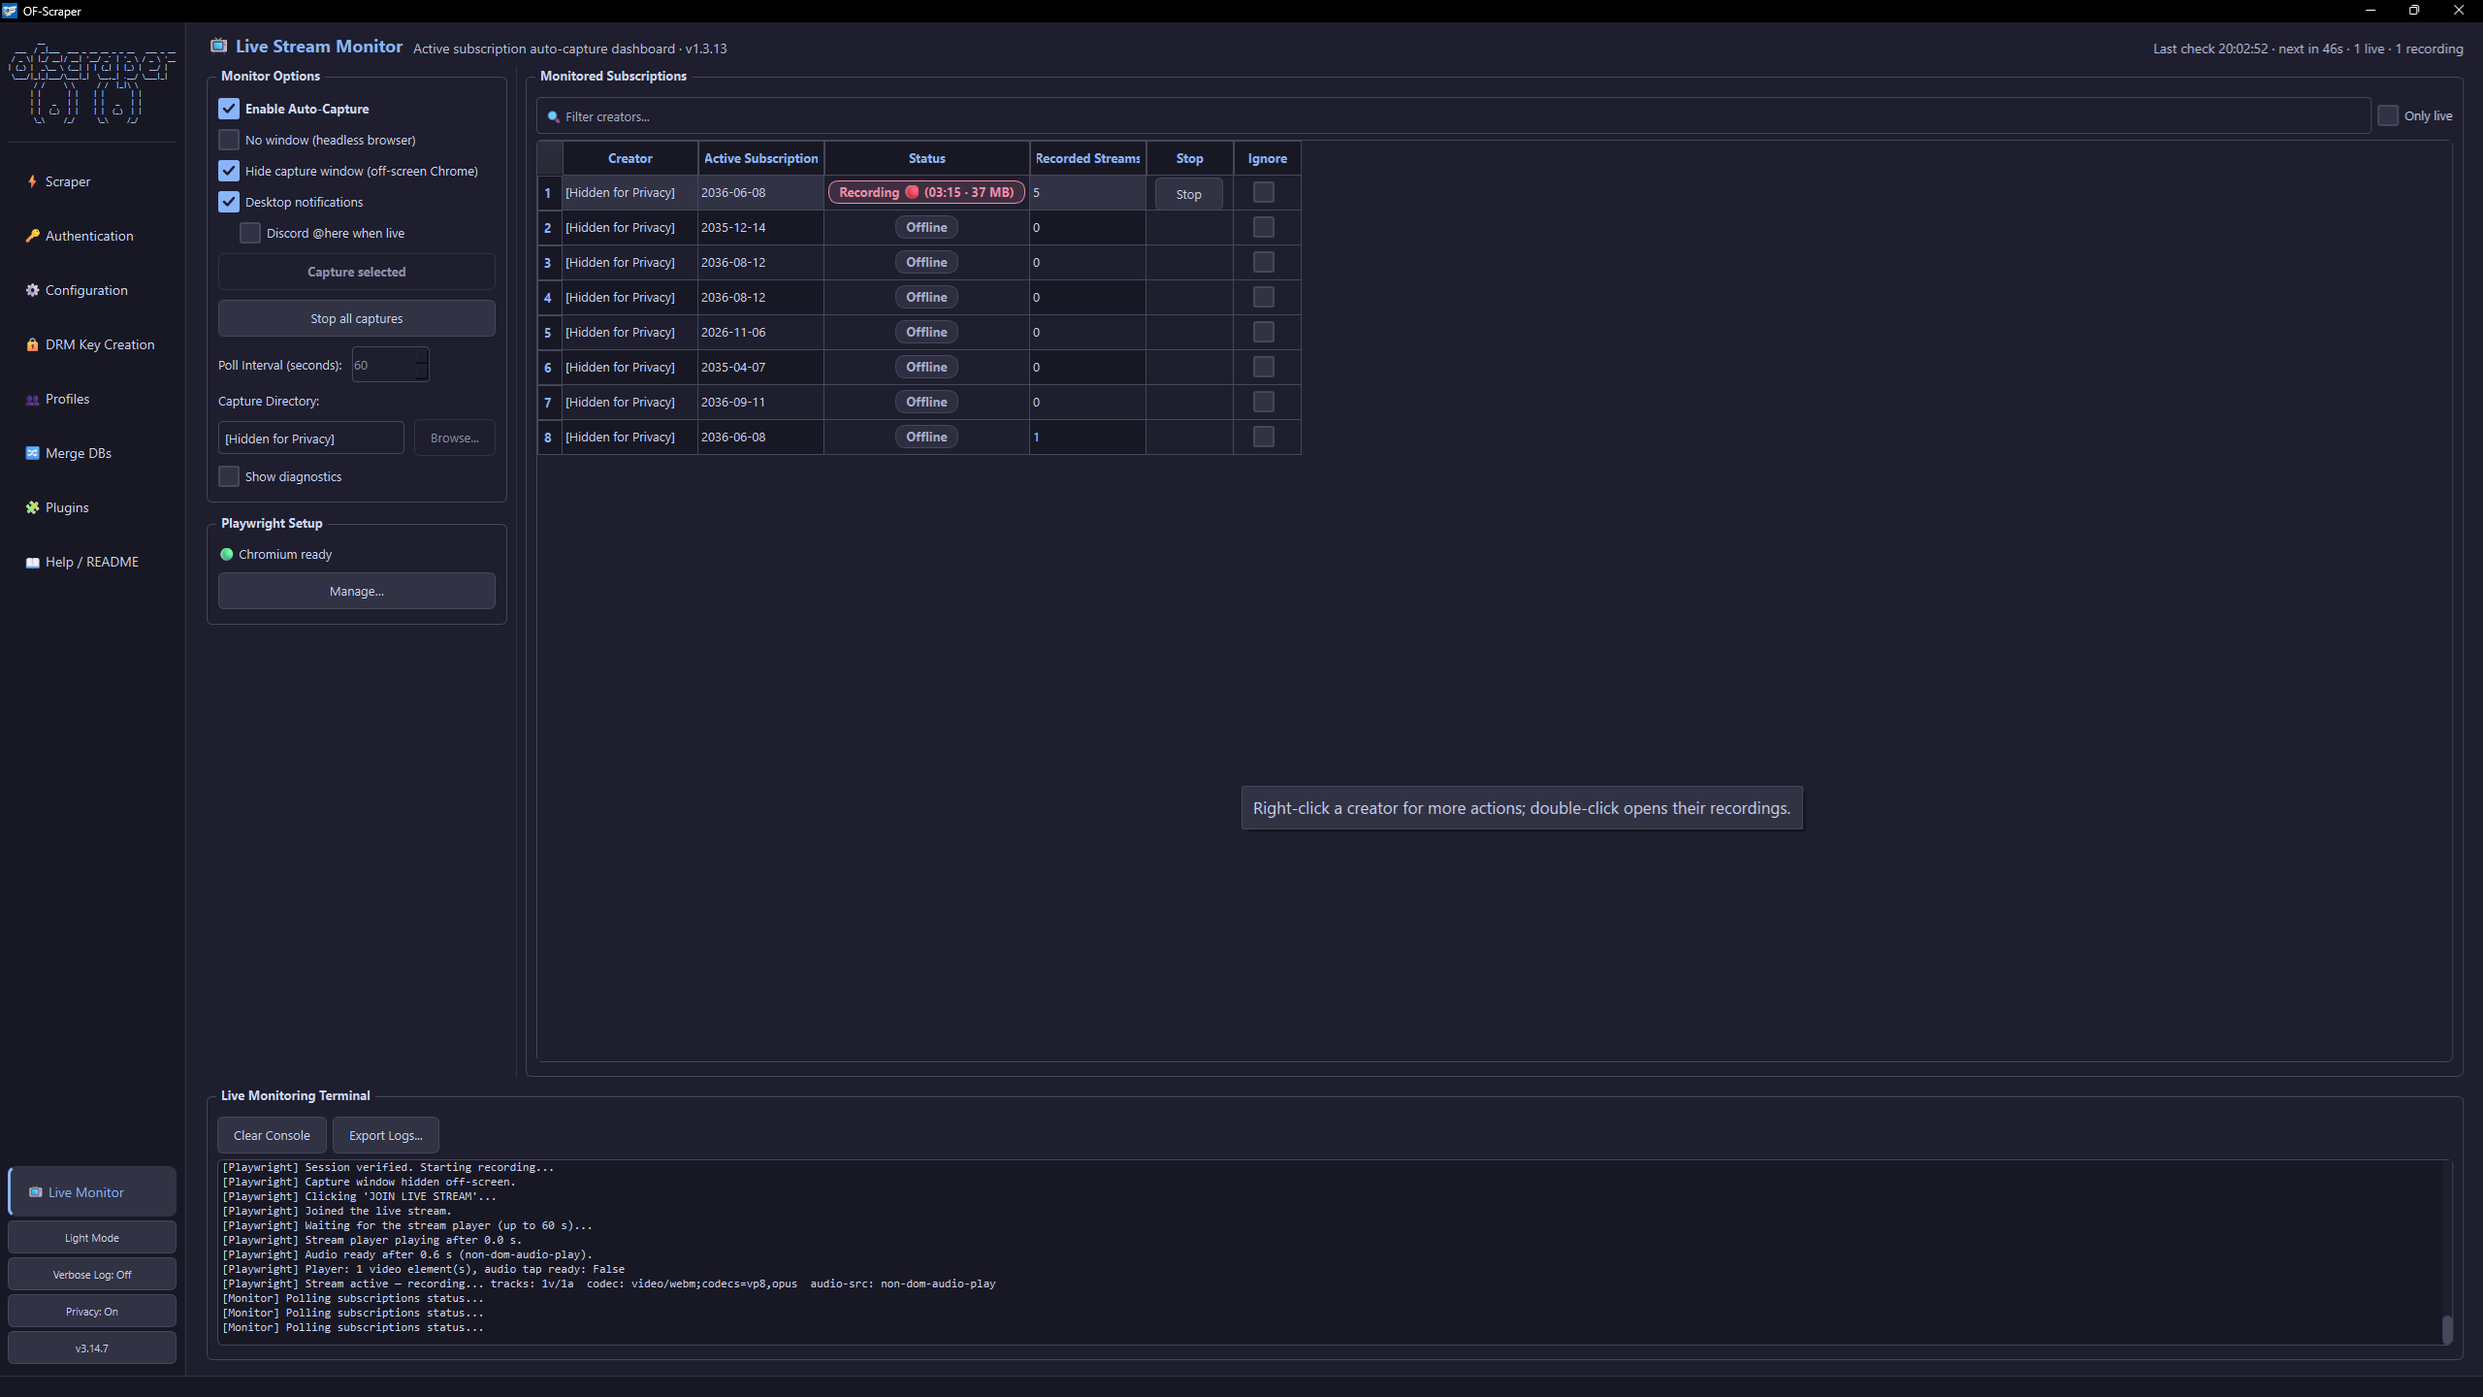
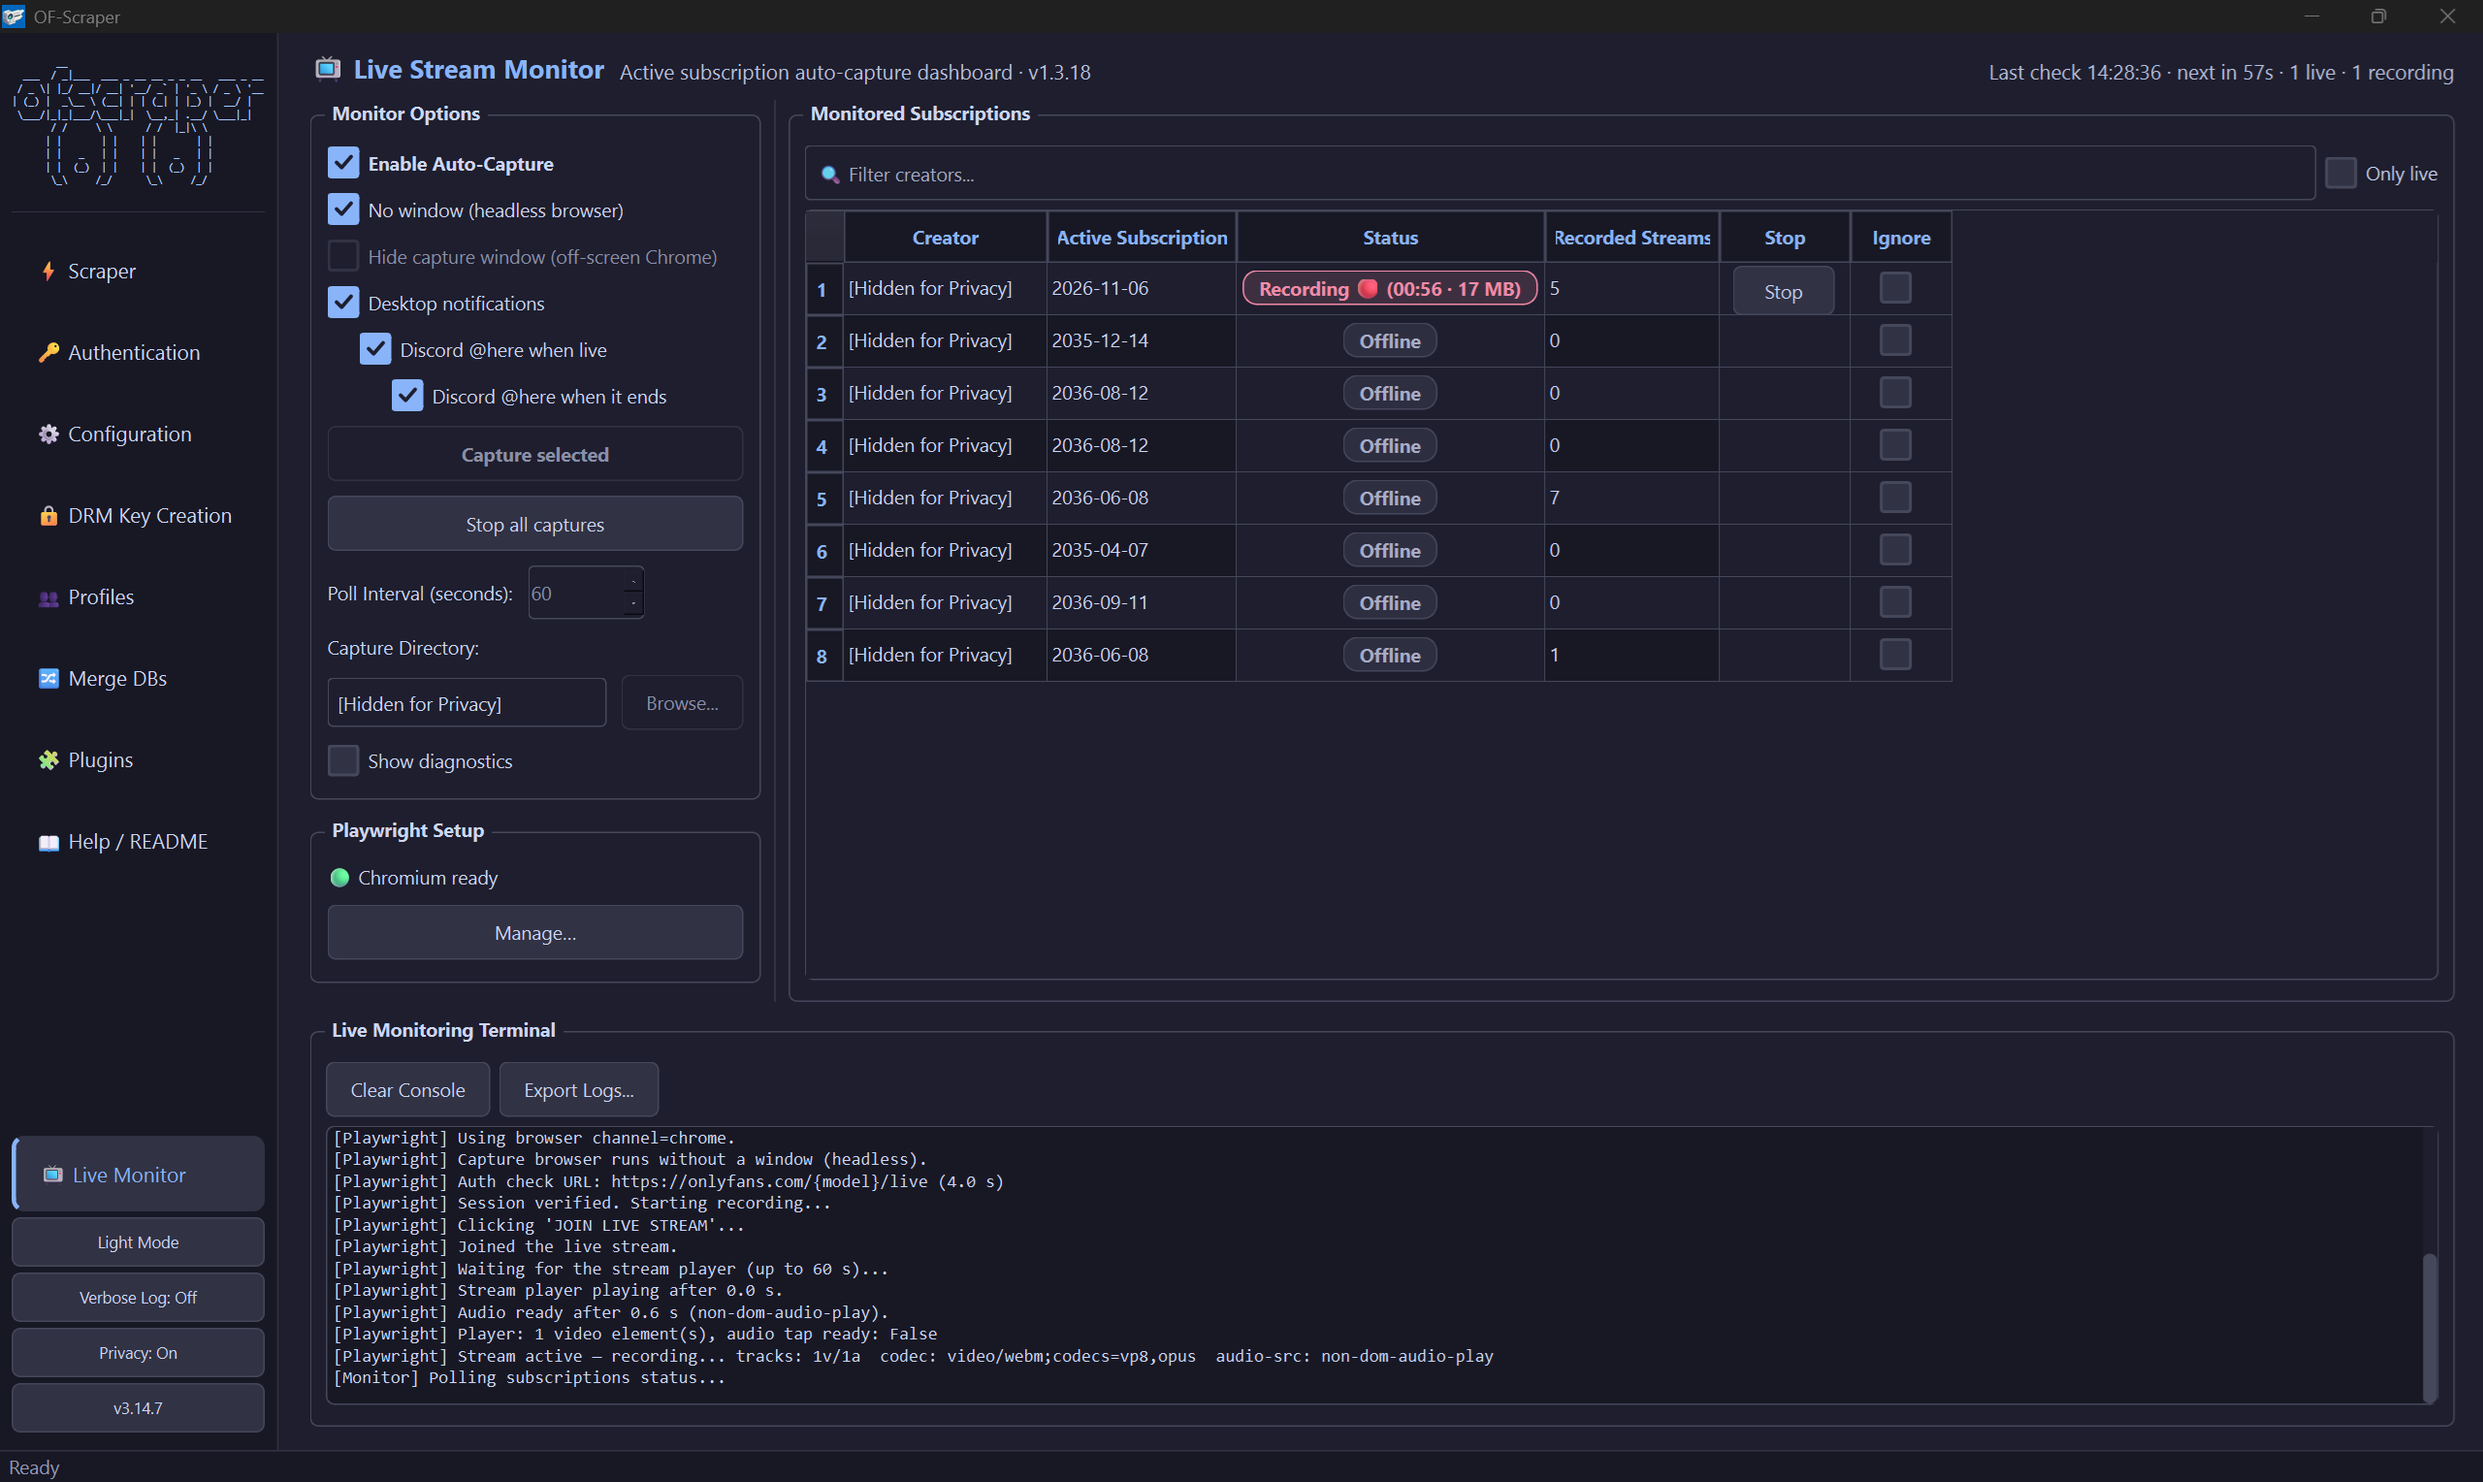
Docs: Live Monitor screenshot (1.3.18), README picture row, drop untestable notes
- New Live Monitor picture (plugin 1.3.18, Privacy on, one recording).
- README "What it adds": row of Check mode, Live Stream Monitor and
  light theme pictures.
- Removed the screenshot notes for the Download failures, disk space and
  model-list-failed dialogs (no easy way to trigger them).

diff --git a/docs/gui-guide.md b/docs/gui-guide.md
@@ -195,8 +195,6 @@ Two ways to capture credentials by logging in (plus Import Cookies / manual past
 
 ### Auth failure handling
 
-> 📸 **Screenshot needed:** the dialog shown when the model list can't be loaded, with the **Retry**, **Go to Authentication**, **Dynamic Mode (Config)**, **SSL Verify (Config)** and **Help / README** buttons.
-
 - When the model list cannot be loaded (auth error), a dialog appears offering:
   - **Retry** — re-fetch models without leaving the page
   - **Go to Authentication** — jump directly to the auth page
@@ -631,8 +629,6 @@ The main scrape workspace after models are selected. Until you press **Start Scr
 - After a run, a **Download failures** dialog lists failed items (filter table / add to cart in check mode)
 - Console panel **height is remembered** across relaunch / returning to the scrape page
 
-> 📸 **Screenshot needed:** the **Download failures** dialog shown after a run with failed items. Turn on Privacy mode first so no usernames or paths show.
-
 ### Confirm scrape (pre-start review)
 
 <details><summary>Screenshot</summary>
@@ -684,8 +680,6 @@ Related prompts on the same page: **disk space** check against Save Location bef
 <img src="images/cancelling.png" width="700" alt="Scraping page after Cancel: the toolbar buttons read Cancelling… and the status says Cancelling… finishing current work while the current download finishes">
 
 </details>
-
-> 📸 **Screenshot needed:** the **disk space** warning before a scrape.
 
 - **Cancel** shows a Cancelling… state and cooperatively stops API pagination, mid-file chunk downloads, and between models — not only between queued media items
 - **Confirm downloads** when the check-mode cart has 25+ items

diff --git a/README.md b/README.md
@@ -60,7 +60,13 @@ A self-contained Python script that patches an installed (non-binary) copy of [O
 - **Plugins** (experimental): AI image tagging, an AI assistant, live stream capture and trial-link scanning
 - **Docker** support: run the GUI on a server and open it in your browser
 
-> 📸 **Screenshot needed:** a small row of pictures for this list, e.g. a Check Mode table, the Authentication page and the Plugins page. The GUI guide already has pictures of these that could be reused, and [Plugins](docs/plugins.md#live-stream-monitor-live_stream_monitor) has one of the Live Monitor page. Turn on Privacy mode first so no usernames or paths show.
+<table>
+  <tr>
+    <td align="center" width="33%"><img src="docs/images/confirm-downloads.png" width="100%" alt="Check mode: a creator's posts in a table with a download cart"><br><em>Check mode</em></td>
+    <td align="center" width="33%"><img src="docs/images/live-stream-monitor.png" width="100%" alt="Live Stream Monitor plugin recording a live stream"><br><em>Live Stream Monitor plugin</em></td>
+    <td align="center" width="33%"><img src="docs/images/theme-light.png" width="100%" alt="Content Areas and Filters page in light mode"><br><em>Light and dark themes</em></td>
+  </tr>
+</table>
 
 The [GUI guide](docs/gui-guide.md) walks through every page.
 

diff --git a/docs/plugins.md b/docs/plugins.md
@@ -237,7 +237,7 @@ The plugin handles its own setup on first enable:
 
 ### Live Stream Monitor (`live_stream_monitor`)
 
-<img src="images/live-stream-monitor.png" width="800" alt="Live Monitor page (plugin v1.3.13, Privacy mode on): monitor options on the left, the subscriptions table with one creator recording, and the console">
+<img src="images/live-stream-monitor.png" width="800" alt="Live Monitor page (plugin v1.3.18, Privacy mode on): monitor options on the left with the Discord @here when live / when it ends options, the subscriptions table with one creator recording, and the console">
 
 Adds a **📺 Live Monitor** sidebar page that polls your subscriptions, detects when a creator goes live, and captures the stream with Playwright Chromium into `{username}/Live_Streams/`.
 
